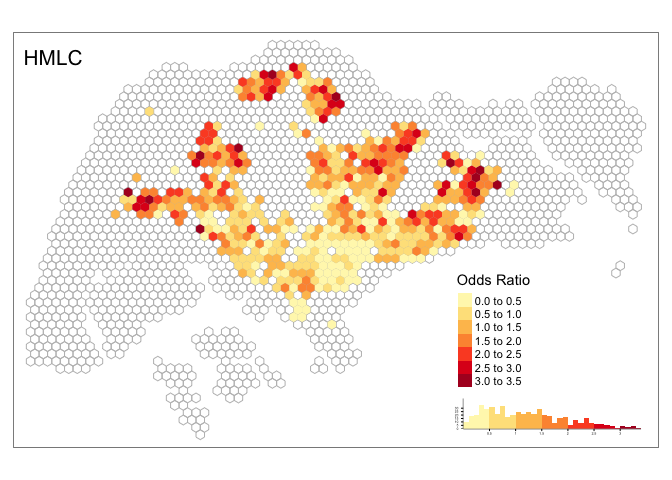
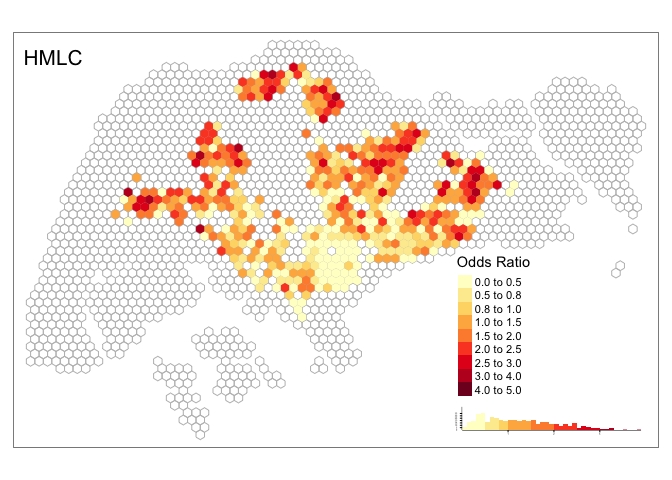
feat: update Odds ratio spatial maps

diff --git a/analysis/01-figures-spatial-comparison-of-four-approaches.md b/analysis/01-figures-spatial-comparison-of-four-approaches.md
@@ -15,42 +15,43 @@ head(grids)
     ## Simple feature collection with 6 features and 1 field
     ## geometry type:  POLYGON
     ## dimension:      XY
-    ## bbox:           xmin: 15792.54 ymin: 15315.71 xmax: 18417.54 ymax: 17480.77
-    ## CRS:            EPSG:3414
+    ## bbox:           xmin: 2292.538 ymin: 21810.9 xmax: 3417.538 ymax: 27873.08
+    ## projected CRS:  SVY21 / Singapore TM
     ##   grid_id                       geometry
-    ## 1       1 POLYGON ((17292.54 15965.23...
-    ## 2       2 POLYGON ((16917.54 16614.75...
-    ## 3       3 POLYGON ((17667.54 16614.75...
-    ## 4       4 POLYGON ((15792.54 17264.27...
-    ## 5       5 POLYGON ((16542.54 17264.27...
-    ## 6       6 POLYGON ((17292.54 17264.27...
+    ## 1       1 POLYGON ((2667.538 21810.9,...
+    ## 2       2 POLYGON ((2667.538 23109.94...
+    ## 3       3 POLYGON ((2667.538 24408.98...
+    ## 4       4 POLYGON ((2667.538 25708.01...
+    ## 5       5 POLYGON ((2667.538 27007.05...
+    ## 6       6 POLYGON ((3042.538 22460.42...
 
 ### Load de-identified dataset
 
 ``` r
 #de-identified dataset 
-df <- read_csv(here("analysis/data/derived_data/deidentified_data.csv"))
+df <- read_csv(here("analysis/data/derived_data/deidentified_sg_tweets.csv")) %>% 
+  mutate(created_at = with_tz(created_at, tzone = "Asia/Singapore")) # the tweets were sent in Singapore, so must convert the timezone to SGT, the default timezone is UTC! 
 head(df)
 ```
 
     ## # A tibble: 6 x 3
     ##       u_id created_at          grid_id
     ##      <dbl> <dttm>                <dbl>
-    ## 1 33677220 2016-03-24 07:01:53     478
-    ## 2 83769538 2014-01-27 07:10:07    1783
-    ## 3 38521033 2013-06-16 05:21:43     949
-    ## 4 88243722 2012-07-23 02:33:23    1295
-    ## 5 41751665 2013-07-06 01:27:50     523
-    ## 6 36532412 2013-10-12 18:46:27     634
+    ## 1 83048769 2015-04-21 10:31:49     695
+    ## 2 83048769 2015-02-23 20:09:00     734
+    ## 3 83048769 2015-03-04 21:25:37     734
+    ## 4 83048769 2015-03-08 19:47:42     734
+    ## 5 83048769 2015-03-02 20:57:27     734
+    ## 6 83048769 2015-04-16 19:35:37     734
 
 ### Load inferred home locations
 
 ``` r
 #load inferred home locations of four approaches 
-hm_apdm <- read_csv(here("analysis/data/derived_data/hm_apdm.csv")) %>% mutate(name = "APDM")
-hm_freq <- read_csv(here("analysis/data/derived_data/hm_freq.csv")) %>% mutate(name = "FREQ")
-hm_hmlc <- read_csv(here("analysis/data/derived_data/hm_hmlc.csv")) %>% mutate(name = "HMLC")
-hm_osna <- read_csv(here("analysis/data/derived_data/hm_osna.csv")) %>% mutate(name = "OSNA")
+hm_apdm <- read_csv(here("analysis/data/derived_data/hm_apdm_updated.csv")) %>% mutate(name = "APDM")
+hm_freq <- read_csv(here("analysis/data/derived_data/hm_freq_updated.csv")) %>% mutate(name = "FREQ")
+hm_hmlc <- read_csv(here("analysis/data/derived_data/hm_hmlc_updated.csv")) %>% mutate(name = "HMLC")
+hm_osna <- read_csv(here("analysis/data/derived_data/hm_osna_updated.csv")) %>% mutate(name = "OSNA")
 hm_all <- bind_rows(hm_apdm, hm_freq, hm_hmlc, hm_osna)
 head(hm_all)
 ```
@@ -58,61 +59,46 @@ head(hm_all)
     ## # A tibble: 6 x 3
     ##       u_id  home name 
     ##      <dbl> <dbl> <chr>
-    ## 1  3191716   849 APDM 
-    ## 2  4408429  1852 APDM 
-    ## 3 71391177  1126 APDM 
-    ## 4 18690315  1067 APDM 
-    ## 5 19578598  1475 APDM 
-    ## 6 64822321   759 APDM
+    ## 1 42151437  1622 APDM 
+    ## 2 44523269   962 APDM 
+    ## 3 71380694  1449 APDM 
+    ## 4 59406560   559 APDM 
+    ## 5 97357036  1394 APDM 
+    ## 6 80510132  1101 APDM
 
 ### Calculate odds ratio
 
 ``` r
 cal_OR <- function(df_hm, df, grids){
-  #number of users with inferred homes at each grid
-  df_locals_grid <- df_hm %>% 
-      group_by(home) %>% 
-      summarise(n_locals_grid = n_distinct(u_id))
-  
-  #grids that have fewer than 5 home users 
-  grids_fewer5hm <- df_locals_grid %>% 
-      filter(n_locals_grid < 5) %>% 
-      pull(home)
-  
-  #users in grids that have fewer than 5 home users 
-  users_in_grids_fewer5hm <- df_hm %>% 
-      filter(home %in% grids_fewer5hm) %>% 
-      pull(u_id) 
-  
-  #remove those users from inferred home dataset 
-  df_hm_updated <- df_hm %>% filter(!u_id %in% users_in_grids_fewer5hm)
-  
-  #number of users with inferred homes at each grid
-  df_locals_grids <- df_hm_updated %>% 
+  # if a grid has less than 5 identified users, remove users in that grid 
+  df_hm_updated <- df_hm %>% 
     group_by(home) %>% 
-    summarise(n_locals_grid = n_distinct(u_id))
+    mutate(n_locals_hm = n_distinct(u_id)) %>% 
+    ungroup() %>% 
+    filter(n_locals_hm >= 5) %>% 
+    dplyr::select(-n_locals_hm, -name)
+  # users to remove 
+  rm_users <- setdiff(df_hm$u_id, df_hm_updated$u_id)
   
-  #remove those users from de-identified dataset 
-  df_updated <- df %>% filter(!u_id %in% users_in_grids_fewer5hm)
-  
-  df_users_grids <- df_updated %>% 
+  # get users in each grid from tweets dataset
+  df_users_grids <- df %>% 
+    filter(!u_id %in% rm_users) %>% # remove user tweets from dataset 
     dplyr::select(u_id, grid_id) %>% 
-    unique()
+    distinct(u_id, grid_id, .keep_all = TRUE)
   
   #calculate Odds Ratio
   df_OR <- df_users_grids %>% 
-    left_join(., (df_hm_updated %>% select(-name)), by = c("u_id" = "u_id")) %>% 
-    replace(., is.na(.), 0) %>% 
-    mutate(type = if_else(grid_id == home, "local", "visitor")) %>% 
-    group_by(grid_id, type) %>% 
-    dplyr::summarise(n_user = n_distinct(u_id)) %>% 
-    spread(key = "type", value = "n_user") %>% 
-    replace(., is.na(.), 0) %>% 
-    ungroup() %>% 
-    filter(grid_id %in% df_hm_updated$home) %>% 
-    mutate(total_local = sum(local), 
-           total_visitor = sum(visitor)) %>% 
-    mutate(OR = (local/total_local)/(visitor/total_visitor)) 
+      left_join(., df_hm_updated, by = c("u_id" = "u_id")) %>% 
+      replace(., is.na(.), 0) %>% 
+      mutate(type = if_else(grid_id == home, "local", "visitor")) %>% 
+      group_by(grid_id, type) %>% 
+      dplyr::summarise(n_user = n_distinct(u_id)) %>% 
+      spread(key = "type", value = "n_user") %>% 
+      na.omit() %>%
+      ungroup() %>% 
+      mutate(total_local = sum(local), 
+             total_visitor = sum(visitor)) %>% 
+      mutate(OR = (local/total_local)/(visitor/total_visitor)) 
   return(df_OR)
 }
 ```
@@ -177,7 +163,7 @@ spatial_view <- function(grids, df_OR, n = 8, method_nm, breaks){
             title.position = c("left", "top"),
             legend.outside = F,
             legend.position = c("right", "bottom"),
-            legend.hist.height = 0.1,
+            legend.hist.height = 0.08,
             legend.hist.width = 0.3,
             legend.hist.size = 0.5)
 }
@@ -186,7 +172,7 @@ spatial_view <- function(grids, df_OR, n = 8, method_nm, breaks){
 #### APDM
 
 ``` r
-spatial_view(grids, OR_apdm, method_nm = "APDM", breaks = c(0, 0.5, 1, 1.5, 2, 2.5, 3, 3.5))
+spatial_view(grids, OR_apdm, method_nm = "APDM", breaks = c(0, 0.5, 0.8, 1, 1.5, 2, 2.5, 3, 4, 5))
 ```
 
 ![](01-figures-spatial-comparison-of-four-approaches_files/figure-gfm/apdm-1.png)<!-- -->
@@ -194,7 +180,7 @@ spatial_view(grids, OR_apdm, method_nm = "APDM", breaks = c(0, 0.5, 1, 1.5, 2, 2
 #### FREQ
 
 ``` r
-spatial_view(grids, OR_freq, method_nm = "FREQ", breaks = c(0, 0.5, 1, 1.5, 2, 2.5, 3, 3.5))
+spatial_view(grids, OR_freq, method_nm = "FREQ", breaks = c(0, 0.5, 0.8, 1, 1.5, 2, 2.5, 3, 4, 5))
 ```
 
 ![](01-figures-spatial-comparison-of-four-approaches_files/figure-gfm/freq-1.png)<!-- -->
@@ -202,7 +188,7 @@ spatial_view(grids, OR_freq, method_nm = "FREQ", breaks = c(0, 0.5, 1, 1.5, 2, 2
 #### HMLC
 
 ``` r
-spatial_view(grids, OR_hmlc, method_nm = "HMLC", breaks = c(0, 0.5, 1, 1.5, 2, 2.5, 3, 3.5))
+spatial_view(grids, OR_hmlc, method_nm = "HMLC", breaks = c(0, 0.5, 0.8, 1, 1.5, 2, 2.5, 3, 4, 5))
 ```
 
 ![](01-figures-spatial-comparison-of-four-approaches_files/figure-gfm/hmlc-1.png)<!-- -->
@@ -210,7 +196,7 @@ spatial_view(grids, OR_hmlc, method_nm = "HMLC", breaks = c(0, 0.5, 1, 1.5, 2, 2
 #### OSNA
 
 ``` r
-spatial_view(grids, OR_osna, method_nm = "OSNA", breaks = c(0, 0.3, 0.5, 1, 3, 5, 7, 9))
+spatial_view(grids, OR_osna, method_nm = "OSNA", breaks = c(0, 0.5, 0.8, 1, 1.5, 2, 2.5, 3, 4, 5))
 ```
 
 ![](01-figures-spatial-comparison-of-four-approaches_files/figure-gfm/osna-1.png)<!-- -->
